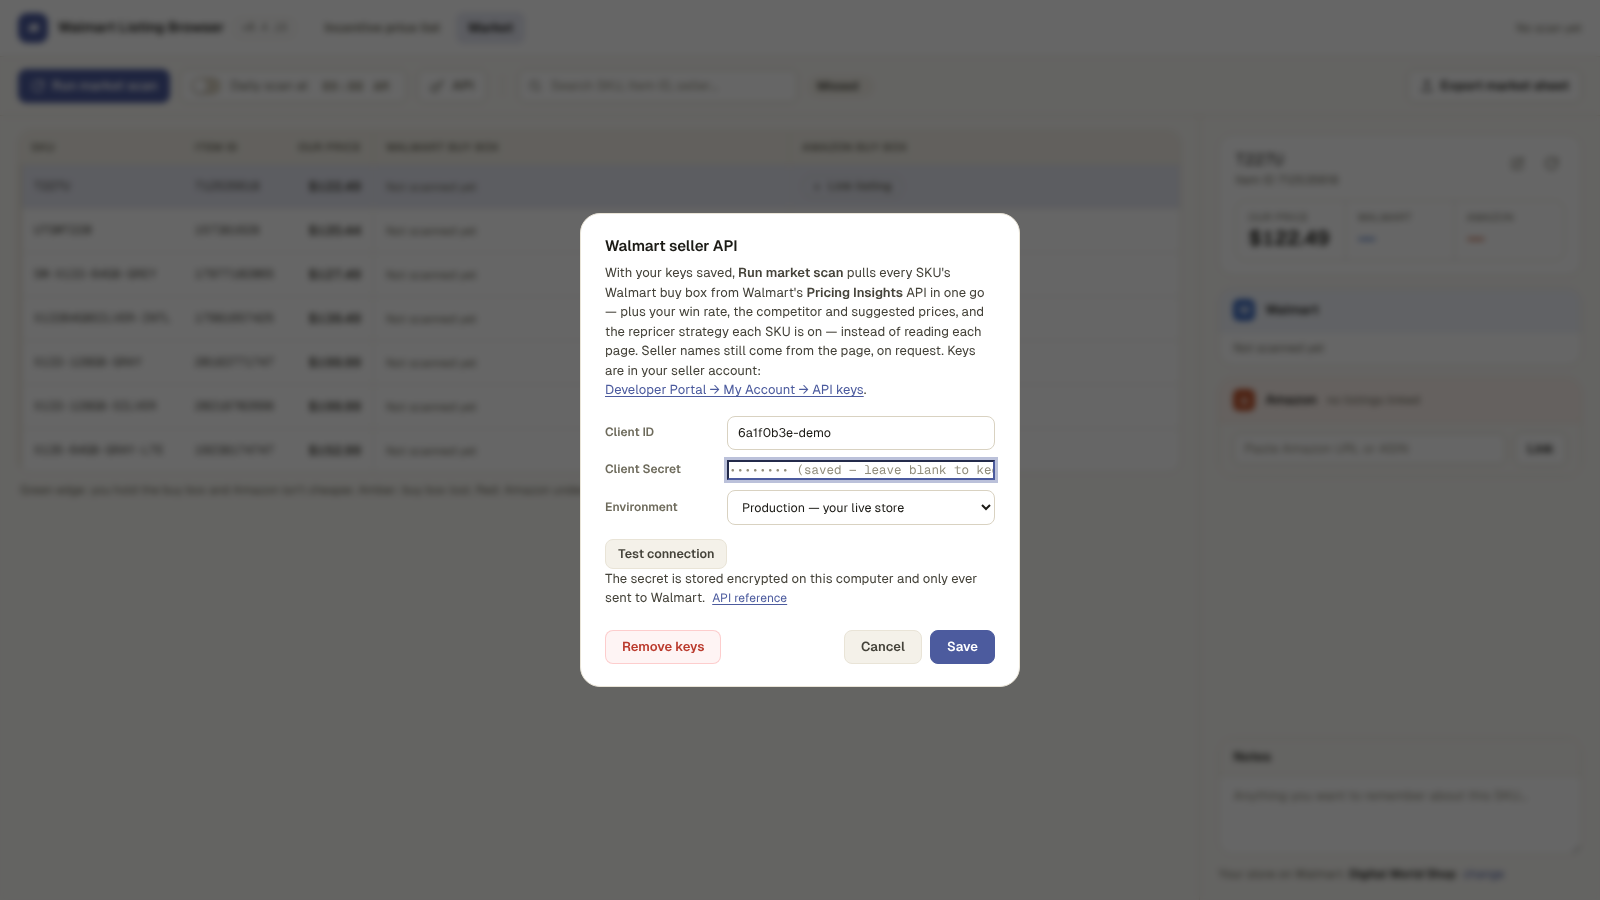
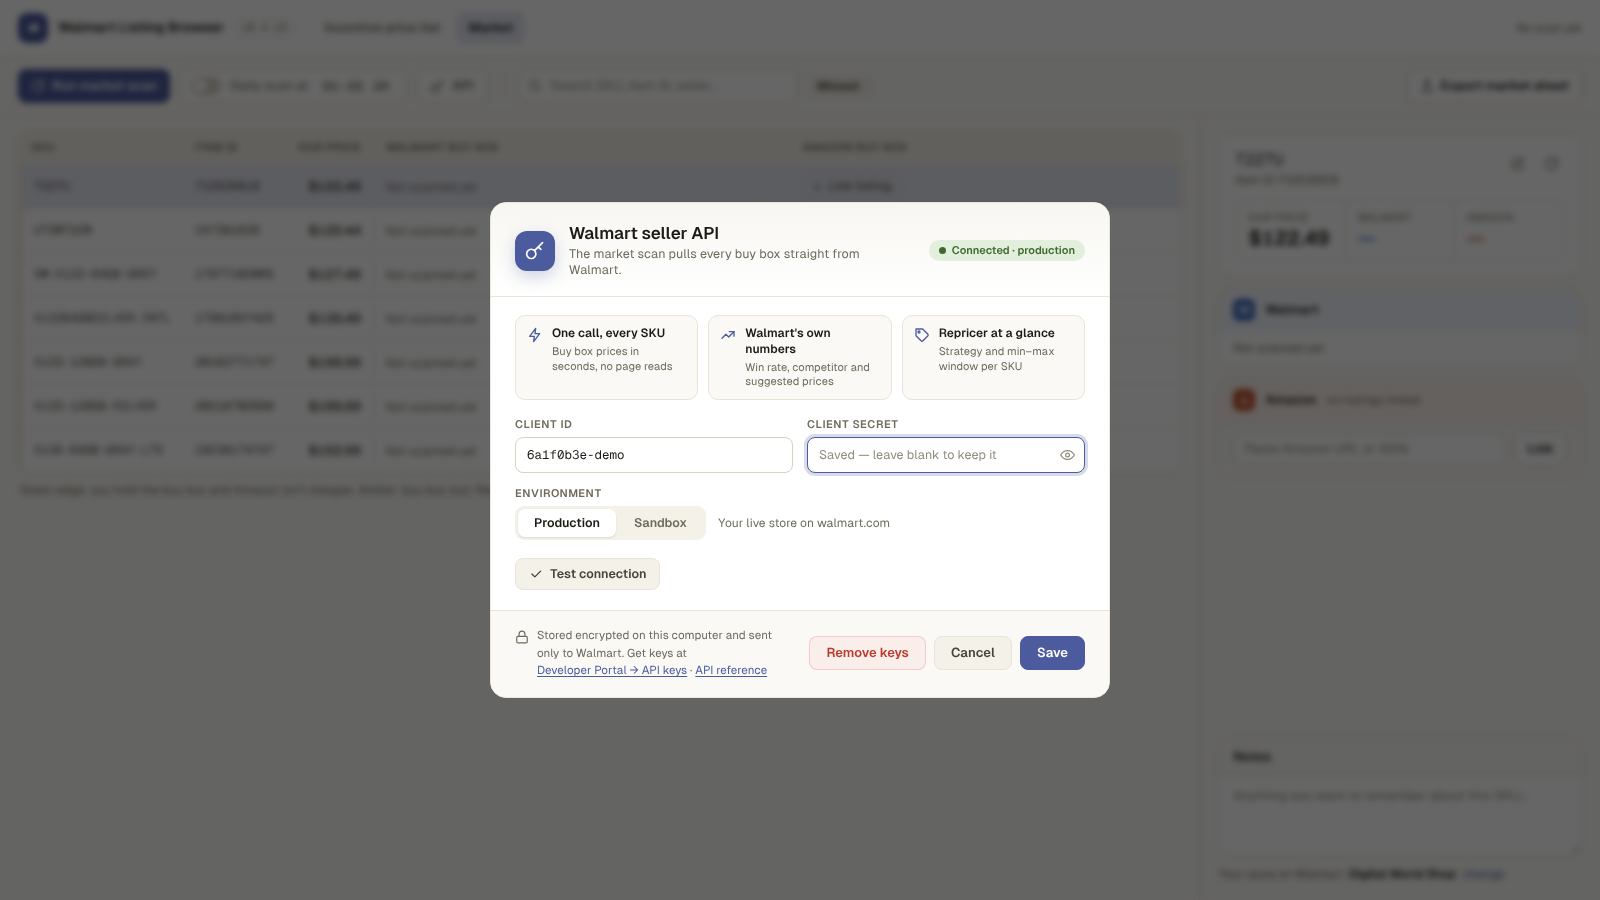
Market tab: redesign the Walmart API keys dialog
Header with a key mark, one-line purpose and a Connected / Not connected
pill; three short cards on what the API adds to the scan; Client ID and
Secret side by side in mono fields with a show/hide toggle on the secret;
Production / Sandbox as a segmented control with a note; a footer strip
with the encryption note, the key and reference links, and the actions.
Replaces the plain stacked form.

Claude-Session: https://claude.ai/code/session_019Yg2gTStBBCpkj8D7JbpwL

Changed region(s): [[0.2812, 0.2178, 0.7188, 0.7778]]

diff --git a/index.html b/index.html
@@ -348,40 +348,83 @@
 
   <!-- Walmart seller API keys (Market scan) -->
   <div id="apiModal" class="modal-overlay hidden">
-    <div class="modal confirm-modal api-card">
-      <h2>Walmart seller API</h2>
-      <p class="hint">
-        With your keys saved, <b>Run market scan</b> pulls every SKU's Walmart buy box from
-        Walmart's <b>Pricing Insights</b> API in one go — plus your win rate, the competitor and
-        suggested prices, and the repricer strategy each SKU is on — instead of reading each page.
-        Seller names still come from the page, on request. Keys are in your seller account:
-        <button id="apiKeysLink" class="linkish" type="button">Developer Portal → My Account → API keys</button>.
-      </p>
-      <p id="apiMsg" class="status hidden"></p>
-      <div class="api-form">
-        <label for="apiClientId">Client ID</label>
-        <input id="apiClientId" type="text" class="mono" autocomplete="off" spellcheck="false" placeholder="Client ID" />
-        <label for="apiSecret">Client Secret</label>
-        <input id="apiSecret" type="password" class="mono" autocomplete="off" placeholder="Client Secret" />
-        <label for="apiEnv">Environment</label>
-        <select id="apiEnv">
-          <option value="production">Production — your live store</option>
-          <option value="sandbox">Sandbox — Walmart's test environment</option>
-        </select>
+    <div class="modal api-card" role="dialog" aria-labelledby="apiTitle">
+      <div class="api-head">
+        <div class="api-mark" aria-hidden="true">
+          <svg width="20" height="20" viewBox="0 0 24 24" fill="none" stroke="currentColor" stroke-width="2" stroke-linecap="round" stroke-linejoin="round"><path d="M21 2l-2 2m-7.6 7.6a5.5 5.5 0 1 1-7.8 7.8 5.5 5.5 0 0 1 7.8-7.8zm0 0L19 4m-3 3l3 3"/></svg>
+        </div>
+        <div class="api-head-text">
+          <h2 id="apiTitle">Walmart seller API</h2>
+          <div class="api-sub">The market scan pulls every buy box straight from Walmart.</div>
+        </div>
+        <span id="apiState" class="api-state off">Not connected</span>
       </div>
-      <div class="api-test-row">
-        <button id="apiTest" type="button">Test connection</button>
-        <span id="apiTestState" class="status"></span>
+
+      <div class="api-body">
+        <div class="api-perks">
+          <div class="api-perk">
+            <svg width="16" height="16" viewBox="0 0 24 24" fill="none" stroke="currentColor" stroke-width="2" stroke-linecap="round" stroke-linejoin="round"><path d="M13 2 4 14h7l-1 8 9-12h-7z"/></svg>
+            <div><b>One call, every SKU</b><span>Buy box prices in seconds, no page reads</span></div>
+          </div>
+          <div class="api-perk">
+            <svg width="16" height="16" viewBox="0 0 24 24" fill="none" stroke="currentColor" stroke-width="2" stroke-linecap="round" stroke-linejoin="round"><path d="M3 17l6-6 4 4 8-8"/><path d="M14 7h7v7"/></svg>
+            <div><b>Walmart's own numbers</b><span>Win rate, competitor and suggested prices</span></div>
+          </div>
+          <div class="api-perk">
+            <svg width="16" height="16" viewBox="0 0 24 24" fill="none" stroke="currentColor" stroke-width="2" stroke-linecap="round" stroke-linejoin="round"><path d="M20.6 13.4 13.4 20.6a2 2 0 0 1-2.8 0L3 13V3h10l7.6 7.6a2 2 0 0 1 0 2.8z"/><circle cx="7.5" cy="7.5" r="1.5"/></svg>
+            <div><b>Repricer at a glance</b><span>Strategy and min–max window per SKU</span></div>
+          </div>
+        </div>
+
+        <p id="apiMsg" class="api-msg hidden"></p>
+
+        <div class="api-form">
+          <div class="api-field">
+            <label for="apiClientId">Client ID</label>
+            <input id="apiClientId" type="text" autocomplete="off" spellcheck="false" placeholder="e.g. 7f1c2a9e-…" />
+          </div>
+          <div class="api-field">
+            <label for="apiSecret">Client Secret</label>
+            <div class="api-secret">
+              <input id="apiSecret" type="password" autocomplete="off" spellcheck="false" placeholder="Client Secret" />
+              <button type="button" id="apiReveal" class="api-eye" title="Show the secret" aria-label="Show the secret">
+                <svg width="15" height="15" viewBox="0 0 24 24" fill="none" stroke="currentColor" stroke-width="2" stroke-linecap="round" stroke-linejoin="round"><path d="M1 12s4-7 11-7 11 7 11 7-4 7-11 7S1 12 1 12z"/><circle cx="12" cy="12" r="3"/></svg>
+              </button>
+            </div>
+          </div>
+          <div class="api-field wide">
+            <label id="apiEnvLabel">Environment</label>
+            <div class="api-env-row">
+              <div class="api-seg" role="radiogroup" aria-labelledby="apiEnvLabel">
+                <button type="button" class="api-seg-btn active" data-env="production" role="radio" aria-checked="true">Production</button>
+                <button type="button" class="api-seg-btn" data-env="sandbox" role="radio" aria-checked="false">Sandbox</button>
+              </div>
+              <span id="apiEnvNote" class="api-env-note">Your live store on walmart.com</span>
+            </div>
+          </div>
+        </div>
+
+        <div class="api-test-row">
+          <button id="apiTest" type="button">
+            <svg width="14" height="14" viewBox="0 0 24 24" fill="none" stroke="currentColor" stroke-width="2.2" stroke-linecap="round" stroke-linejoin="round"><path d="M5 12l5 5L20 7"/></svg>
+            Test connection
+          </button>
+          <span id="apiTestState" class="api-test-state"></span>
+        </div>
       </div>
-      <p class="hint api-foot">
-        The secret is stored encrypted on this computer and only ever sent to Walmart.
-        <button id="apiDocsLink" class="linkish" type="button">API reference</button>
-        <span id="apiLast" class="api-last"></span>
-      </p>
-      <div class="confirm-actions">
-        <button id="apiRemove" class="danger hidden">Remove keys</button>
-        <button id="apiCancel">Cancel</button>
-        <button id="apiSave" class="primary">Save</button>
+
+      <div class="api-foot">
+        <div class="api-foot-text">
+          <svg width="14" height="14" viewBox="0 0 24 24" fill="none" stroke="currentColor" stroke-width="2" stroke-linecap="round" stroke-linejoin="round" aria-hidden="true"><rect x="3" y="11" width="18" height="11" rx="2"/><path d="M7 11V7a5 5 0 0 1 10 0v4"/></svg>
+          <span>Stored encrypted on this computer and sent only to Walmart. Get keys at
+            <button id="apiKeysLink" class="linkish" type="button">Developer Portal → API keys</button>
+            · <button id="apiDocsLink" class="linkish" type="button">API reference</button><span id="apiLast" class="api-last"></span></span>
+        </div>
+        <div class="api-actions">
+          <button id="apiRemove" class="danger hidden">Remove keys</button>
+          <button id="apiCancel">Cancel</button>
+          <button id="apiSave" class="primary">Save</button>
+        </div>
       </div>
     </div>
   </div>

diff --git a/app.css b/app.css
@@ -659,15 +659,56 @@ button.mini { padding: 6px 11px; font-size: 12.5px; min-height: 32px; }
 .m-seller.m-note { flex-wrap: wrap; line-height: 1.5; }
 
 /* API keys dialog */
-.api-card { width: min(540px, 94vw); }
-.api-form { display: grid; grid-template-columns: 110px 1fr; gap: 10px 12px; align-items: center; margin-top: 16px; }
-.api-form label { font-size: 12px; font-weight: 600; color: var(--muted); }
-.api-form input, .api-form select { width: 100%; font-size: 12.5px; }
-.api-test-row { display: flex; align-items: center; gap: 12px; margin-top: 14px; }
-.api-test-row button { padding: 6px 12px; font-size: 12.5px; flex: none; }
-.api-test-row .status { min-width: 0; }
-.api-foot { margin-top: 14px; font-size: 12px; color: var(--faint); }
-.api-foot .linkish { font-size: 12px; margin-left: 4px; }
-.api-last { margin-left: 8px; }
-#apiMsg { margin-top: 10px; font-size: 12.5px; }
-.confirm-actions #apiRemove { margin-right: auto; }
+.modal.api-card { width: min(620px, 94vw); padding: 0; overflow: hidden; border-radius: 16px; }
+.api-head { display: flex; align-items: center; gap: 14px; padding: 20px 24px 18px; border-bottom: 1px solid #E9E4D7; background: linear-gradient(180deg, #F7F6F1 0%, #FFFFFF 100%); }
+.api-mark { width: 40px; height: 40px; border-radius: 12px; background: #4C5B9E; color: #fff; display: inline-flex; align-items: center; justify-content: center; flex: none; box-shadow: 0 6px 16px rgba(76, 91, 158, .25); }
+.api-head-text { flex: 1; min-width: 0; }
+.api-head h2 { margin: 0; font-size: 17px; line-height: 1.2; }
+.api-sub { font-size: 12.5px; color: #6E6B5C; margin-top: 3px; }
+.api-state { flex: none; display: inline-flex; align-items: center; gap: 6px; padding: 4px 10px; border-radius: 999px; font-size: 11px; font-weight: 600; white-space: nowrap; }
+.api-state::before { content: ""; width: 7px; height: 7px; border-radius: 50%; background: currentColor; }
+.api-state.on { background: #E3EFDD; color: #3F6A2F; }
+.api-state.off { background: #F4F1E9; color: #6E6B5C; }
+.api-body { padding: 18px 24px 2px; }
+.api-perks { display: grid; grid-template-columns: repeat(3, minmax(0, 1fr)); gap: 10px; }
+.api-perk { display: flex; gap: 9px; align-items: flex-start; padding: 10px 11px; border: 1px solid #E9E4D7; border-radius: 10px; background: #FAF9F5; min-width: 0; }
+.api-perk svg { flex: none; color: #4C5B9E; margin-top: 1px; }
+.api-perk b { display: block; font-size: 12px; color: #1C1B16; line-height: 1.3; }
+.api-perk span { display: block; font-size: 11px; color: #6E6B5C; margin-top: 2px; line-height: 1.35; }
+.api-msg { margin: 14px 0 0; padding: 9px 12px; border-radius: 8px; font-size: 12.5px; line-height: 1.45; background: #E6E8F3; color: #3D4A85; }
+.api-msg.error { background: #FBE8E5; color: #BB3B2E; }
+.api-form { display: grid; grid-template-columns: 1fr 1fr; gap: 14px; margin-top: 18px; }
+.api-field { display: flex; flex-direction: column; gap: 6px; min-width: 0; }
+.api-field.wide { grid-column: 1 / -1; }
+.api-field label { font-size: 11px; font-weight: 600; text-transform: uppercase; letter-spacing: .05em; color: #6E6B5C; }
+.api-field input[type="text"], .api-field input[type="password"] {
+  width: 100%; padding: 9px 11px; border: 1px solid #D9D2C1; border-radius: 8px;
+  font-family: "Geist Mono", "JetBrains Mono", Consolas, monospace; font-size: 12.5px;
+  background: #fff; color: #1C1B16; transition: border-color .12s, box-shadow .12s;
+}
+.api-field input::placeholder { color: #918D7C; font-family: "Geist", "Inter", system-ui, sans-serif; }
+.api-field input:focus { outline: none; border-color: #4C5B9E; box-shadow: 0 0 0 3px rgba(76, 91, 158, .22); }
+.api-secret { position: relative; }
+.api-secret input { padding-right: 38px; }
+.api-eye { position: absolute; right: 5px; top: 50%; transform: translateY(-50%); border: 0; background: none; color: #918D7C; padding: 5px; border-radius: 6px; cursor: pointer; min-height: 0; display: inline-flex; }
+.api-eye:hover { color: #1C1B16; background: #F4F1E9; }
+.api-eye.on { color: #4C5B9E; }
+.api-env-row { display: flex; align-items: center; gap: 12px; flex-wrap: wrap; }
+.api-seg { display: inline-flex; background: #F4F1E9; border-radius: 9px; padding: 3px; gap: 2px; }
+.api-seg-btn { border: 0; background: transparent; padding: 6px 16px; border-radius: 7px; font: inherit; font-size: 12.5px; font-weight: 600; color: #6E6B5C; cursor: pointer; min-height: 0; }
+.api-seg-btn:hover { color: #1C1B16; background: transparent; }
+.api-seg-btn.active { background: #fff; color: #1C1B16; box-shadow: 0 1px 2px rgba(0, 0, 0, .1); }
+.api-env-note { font-size: 12px; color: #6E6B5C; }
+.api-test-row { display: flex; align-items: center; gap: 12px; margin-top: 18px; }
+.api-test-row button { display: inline-flex; align-items: center; gap: 7px; padding: 7px 13px; font-size: 12.5px; flex: none; }
+.api-test-state { font-size: 12.5px; color: #6E6B5C; min-width: 0; }
+.api-test-state.ok { color: #3F6A2F; font-weight: 600; }
+.api-test-state.error { color: #BB3B2E; font-weight: 600; }
+.api-foot { display: flex; align-items: center; gap: 16px; padding: 16px 24px 18px; margin-top: 18px; border-top: 1px solid #E9E4D7; background: #FAF9F5; }
+.api-foot-text { flex: 1; min-width: 0; display: flex; gap: 8px; align-items: flex-start; font-size: 11.5px; color: #6E6B5C; line-height: 1.5; }
+.api-foot-text svg { flex: none; margin-top: 3px; }
+.api-foot-text .linkish { font-size: 11.5px; }
+.api-last { display: block; margin-top: 2px; color: #918D7C; }
+.api-last:empty { display: none; }
+.api-actions { display: flex; gap: 8px; flex: none; }
+.api-actions button { padding: 8px 16px; }

diff --git a/market.js b/market.js
@@ -571,16 +571,31 @@ async function refreshApiSettings() {
   try { apiSettings = await window.api.getApiSettings(); } catch { /* keep defaults */ }
   renderApiBtn();
 }
+const ENV_NOTE = { production: "Your live store on walmart.com", sandbox: "Walmart's test environment — nothing real is touched" };
+function setApiEnv(env) {
+  document.querySelectorAll(".api-seg-btn").forEach((b) => {
+    const on = b.dataset.env === env;
+    b.classList.toggle("active", on);
+    b.setAttribute("aria-checked", on ? "true" : "false");
+  });
+  $("apiEnvNote").textContent = ENV_NOTE[env] || "";
+}
+const apiEnvValue = () => document.querySelector(".api-seg-btn.active")?.dataset.env || "production";
 function openApiModal(message, isError) {
   const msg = $("apiMsg");
   msg.textContent = message || "";
-  msg.className = "status" + (isError ? " error" : "") + (message ? "" : " hidden");
+  msg.className = "api-msg" + (isError ? " error" : "") + (message ? "" : " hidden");
+  const state = $("apiState");
+  state.textContent = apiReady() ? `Connected · ${apiSettings.env === "sandbox" ? "sandbox" : "production"}` : "Not connected";
+  state.className = "api-state " + (apiReady() ? "on" : "off");
   $("apiClientId").value = apiSettings.clientId || "";
   $("apiSecret").value = "";
-  $("apiSecret").placeholder = apiSettings.hasSecret ? "•••••••• (saved — leave blank to keep)" : "Client Secret";
-  $("apiEnv").value = apiSettings.env || "production";
+  $("apiSecret").type = "password";
+  $("apiReveal").classList.remove("on");
+  $("apiSecret").placeholder = apiSettings.hasSecret ? "Saved — leave blank to keep it" : "Client Secret";
+  setApiEnv(apiSettings.env || "production");
   $("apiTestState").textContent = "";
-  $("apiTestState").className = "status";
+  $("apiTestState").className = "api-test-state";
   $("apiRemove").classList.toggle("hidden", !(apiSettings.clientId || apiSettings.hasSecret));
   $("apiLast").textContent = apiSettings.lastScan ? `Last API scan ${when(apiSettings.lastScan)}` : "";
   window.api.hideListing();
@@ -589,7 +604,16 @@ function openApiModal(message, isError) {
   setTimeout(() => $(apiSettings.clientId ? "apiSecret" : "apiClientId").focus(), 30);
 }
 function closeApiModal() { $("apiModal").classList.add("hidden"); }
-const apiFormValues = () => ({ clientId: $("apiClientId").value.trim(), clientSecret: $("apiSecret").value.trim(), env: $("apiEnv").value });
+const apiFormValues = () => ({ clientId: $("apiClientId").value.trim(), clientSecret: $("apiSecret").value.trim(), env: apiEnvValue() });
+document.querySelectorAll(".api-seg-btn").forEach((b) => b.addEventListener("click", () => setApiEnv(b.dataset.env)));
+$("apiReveal").addEventListener("click", () => {
+  const f = $("apiSecret");
+  const show = f.type === "password";
+  f.type = show ? "text" : "password";
+  $("apiReveal").classList.toggle("on", show);
+  $("apiReveal").title = show ? "Hide the secret" : "Show the secret";
+  f.focus();
+});
 $("mApiBtn").addEventListener("click", () => openApiModal(""));
 $("apiCancel").addEventListener("click", closeApiModal);
 $("apiModal").addEventListener("click", (e) => { if (e.target.id === "apiModal") closeApiModal(); });
@@ -600,16 +624,16 @@ $("apiTest").addEventListener("click", async () => {
   const v = apiFormValues();
   if (!v.clientId || (!v.clientSecret && !apiSettings.hasSecret)) {
     $("apiTestState").textContent = "Enter the Client ID and Client Secret first.";
-    $("apiTestState").className = "status error";
+    $("apiTestState").className = "api-test-state error";
     return;
   }
   $("apiTestState").textContent = "Connecting to Walmart…";
-  $("apiTestState").className = "status";
+  $("apiTestState").className = "api-test-state";
   $("apiTest").disabled = true;
   const res = await window.api.testApi(v);
   $("apiTest").disabled = false;
   $("apiTestState").textContent = res?.ok ? "Connected ✓ — Walmart accepted these keys." : (res?.error || "Connection failed.");
-  $("apiTestState").className = "status " + (res?.ok ? "ok" : "error");
+  $("apiTestState").className = "api-test-state " + (res?.ok ? "ok" : "error");
 });
 $("apiSave").addEventListener("click", async () => {
   const v = apiFormValues();
